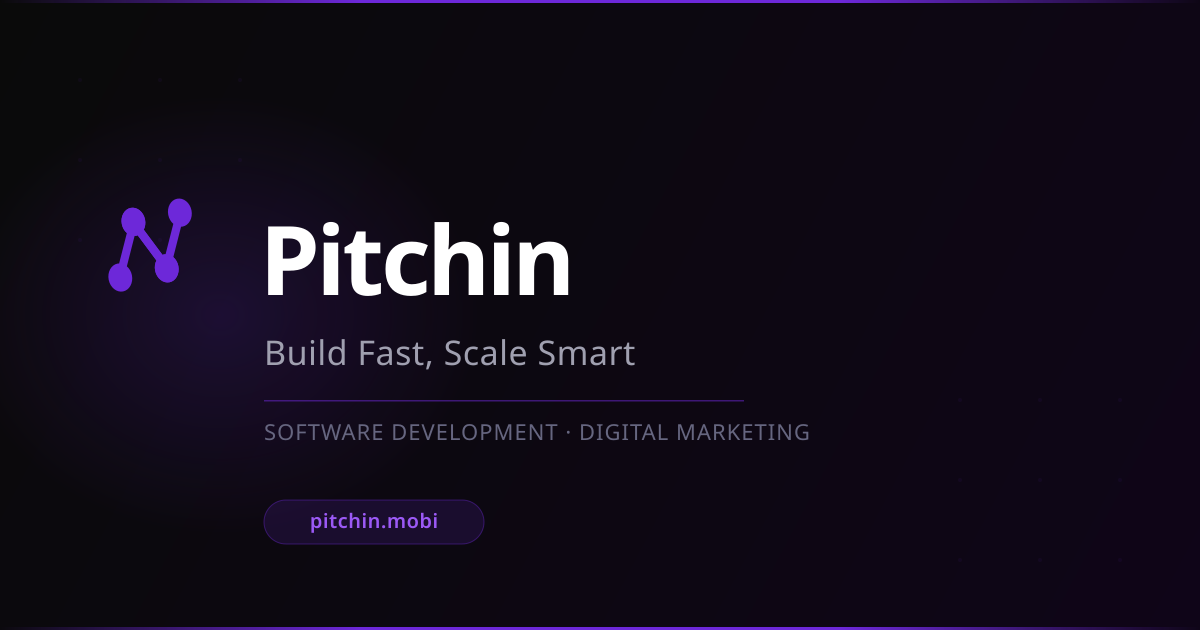
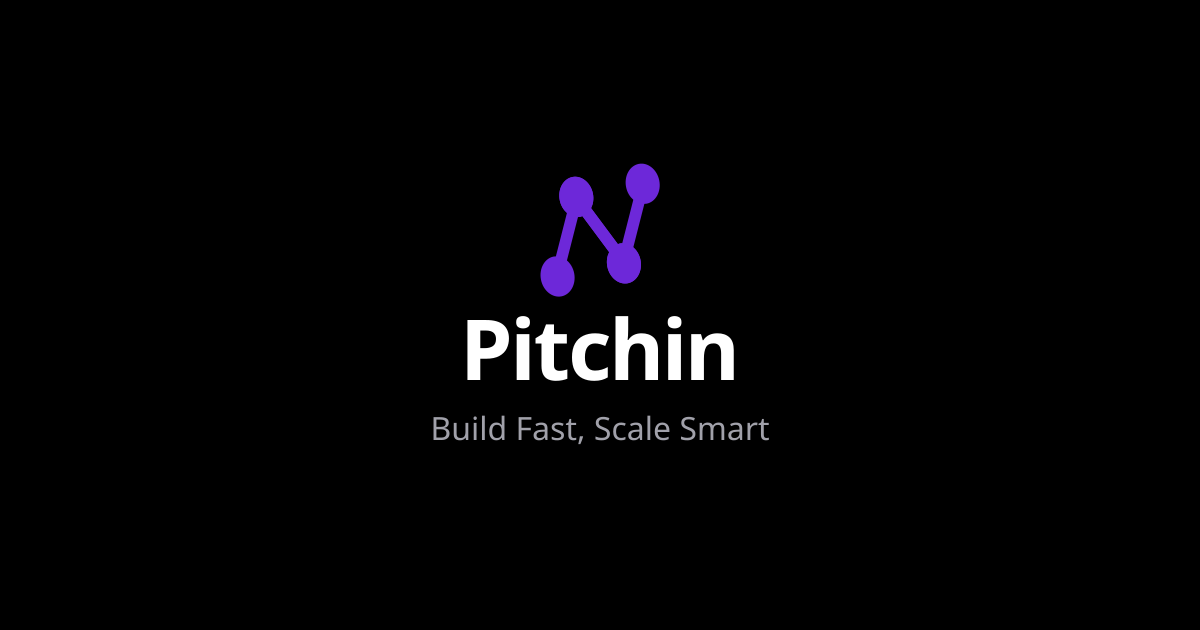
fixed og

diff --git a/src/app/case-studies/page.tsx b/src/app/case-studies/page.tsx
@@ -7,12 +7,12 @@ import SectionHeader from "@/components/ui/SectionHeader";
 import GridOverlay from "@/components/ui/GridOverlay";
 import { getServerDictionary } from "@/lib/i18n/server";
 import { localizeCaseStudy } from "@/lib/i18n/case-studies";
-
+import { absoluteUrl } from "@/lib/seo";
 export const metadata: Metadata = {
     title: "Case Studies | Pitchin",
     description: "Explore our portfolio of successful software development projects across FinTech, EdTech, Healthcare, and E-commerce.",
     alternates: {
-        canonical: "/case-studies",
+        canonical: absoluteUrl("/case-studies"),
     },
 };
 

diff --git a/src/app/careers/page.tsx b/src/app/careers/page.tsx
@@ -5,12 +5,12 @@ import Link from "next/link";
 import { MapPin, Clock, Briefcase, ChevronRight } from "lucide-react";
 import { JobListing } from "@/types";
 import { getServerLocale } from "@/lib/i18n/server";
-
+import { absoluteUrl } from "@/lib/seo";
 export const metadata: Metadata = {
     title: "Careers | Pitchin",
     description: "Join the Pitchin team. We're hiring talented engineers, designers, and product managers who want to shape the future of software development.",
     alternates: {
-        canonical: "/careers",
+        canonical: absoluteUrl("/careers"),
     },
 };
 

diff --git a/src/app/services/page.tsx b/src/app/services/page.tsx
@@ -5,12 +5,13 @@ import Link from "next/link";
 import { services } from "@/lib/services-data";
 import SectionHeader from "@/components/ui/SectionHeader";
 import { ChevronRight } from "lucide-react";
+import { absoluteUrl } from "@/lib/seo";
 
 export const metadata: Metadata = {
     title: "Services | Pitchin",
     description: "End-to-end software development services from MVP to enterprise scale. Staff augmentation, web development, mobile apps, and more.",
     alternates: {
-        canonical: "/services",
+        canonical: absoluteUrl("/services"),
     },
 };
 

diff --git a/src/app/blog/page.tsx b/src/app/blog/page.tsx
@@ -7,12 +7,12 @@ import SectionHeader from "@/components/ui/SectionHeader";
 import GridOverlay from "@/components/ui/GridOverlay";
 import { formatDate } from "@/lib/utils";
 import { User } from "lucide-react";
-
+import { absoluteUrl } from "@/lib/seo";
 export const metadata: Metadata = {
     title: "Blog | Pitchin",
     description: "Insights, guides, and opinions on software engineering, product design, and tech agency culture.",
     alternates: {
-        canonical: "/blog",
+        canonical: absoluteUrl("/blog"),
     },
 };
 

diff --git a/src/app/about/page.tsx b/src/app/about/page.tsx
@@ -5,12 +5,12 @@ import Link from "next/link";
 import { TeamMember } from "@/types";
 import { User } from "lucide-react";
 import { getServerLocale } from "@/lib/i18n/server";
-
+import { absoluteUrl } from "@/lib/seo";
 export const metadata: Metadata = {
     title: "About Us | Pitchin",
     description: "Meet the Pitchin team — a remote-first collective of engineers, designers, and strategists building people-first software.",
     alternates: {
-        canonical: "/about",
+        canonical: absoluteUrl("/about"),
     },
 };
 

diff --git a/src/app/page.tsx b/src/app/page.tsx
@@ -9,12 +9,14 @@ import Testimonials from "@/components/Testimonials";
 import DiversePortfolio from "@/components/DiversePortfolio";
 import FAQ from "@/components/FAQ";
 
+import { absoluteUrl } from "@/lib/seo";
+
 export const metadata: Metadata = {
   title: "Pitchin | Build Fast, Scale Smart",
   description:
     "Software development and digital marketing agency for startups and enterprises. Build MVPs, scale products, and grow organic traffic.",
   alternates: {
-    canonical: "/",
+    canonical: absoluteUrl("/"),
   },
 };
 

diff --git a/src/app/contact/page.tsx b/src/app/contact/page.tsx
@@ -3,12 +3,12 @@ import type { Metadata } from "next";
 import Image from "next/image";
 import { Mail, MapPin, Linkedin } from "lucide-react";
 import { getServerLocale } from "@/lib/i18n/server";
-
+import { absoluteUrl } from "@/lib/seo";
 export const metadata: Metadata = {
     title: "Contact Us | Pitchin",
     description: "Get in touch with Pitchin. Let's discuss your project and get you a free quote.",
     alternates: {
-        canonical: "/contact",
+        canonical: absoluteUrl("/contact"),
     },
 };
 

diff --git a/src/app/services/[slug]/page.tsx b/src/app/services/[slug]/page.tsx
@@ -26,7 +26,7 @@ export async function generateMetadata({ params }: { params: Promise<{ slug: str
         title: `${service.title} ${service.subtitle} | Pitchin`,
         description: service.description,
         alternates: {
-            canonical: `/services/${service.slug}`,
+            canonical: absoluteUrl(`/services/${service.slug}`),
         },
         openGraph: {
             type: "website",

diff --git a/src/app/case-studies/[slug]/page.tsx b/src/app/case-studies/[slug]/page.tsx
@@ -29,7 +29,7 @@ export async function generateMetadata({ params }: { params: Promise<{ slug: str
         title: `${study.company} Case Study | Pitchin`,
         description: study.tagline,
         alternates: {
-            canonical: `/case-studies/${study.slug}`,
+            canonical: absoluteUrl(`/case-studies/${study.slug}`),
         },
         openGraph: {
             type: "article",

diff --git a/src/app/legal/gdpr/page.tsx b/src/app/legal/gdpr/page.tsx
@@ -1,10 +1,10 @@
 import { Metadata } from "next";
-
+import { absoluteUrl } from "@/lib/seo";
 export const metadata: Metadata = {
     title: "GDPR Compliance | Pitchin",
     description: "Information regarding Pitchin's compliance with the General Data Protection Regulation.",
     alternates: {
-        canonical: "/legal/gdpr",
+        canonical: absoluteUrl("/legal/gdpr"),
     },
 };
 

diff --git a/src/app/legal/privacy/page.tsx b/src/app/legal/privacy/page.tsx
@@ -1,10 +1,10 @@
 import { Metadata } from "next";
-
+import { absoluteUrl } from "@/lib/seo";
 export const metadata: Metadata = {
     title: "Privacy Policy | Pitchin",
     description: "Privacy policy detailing how Pitchin collects and protects your data.",
     alternates: {
-        canonical: "/legal/privacy",
+        canonical: absoluteUrl("/legal/privacy"),
     },
 };
 

diff --git a/src/app/legal/terms/page.tsx b/src/app/legal/terms/page.tsx
@@ -1,10 +1,10 @@
 import { Metadata } from "next";
-
+import { absoluteUrl } from "@/lib/seo";
 export const metadata: Metadata = {
     title: "Terms & Conditions | Pitchin",
     description: "Terms and conditions for Pitchin software development services.",
     alternates: {
-        canonical: "/legal/terms",
+        canonical: absoluteUrl("/legal/terms"),
     },
 };
 
